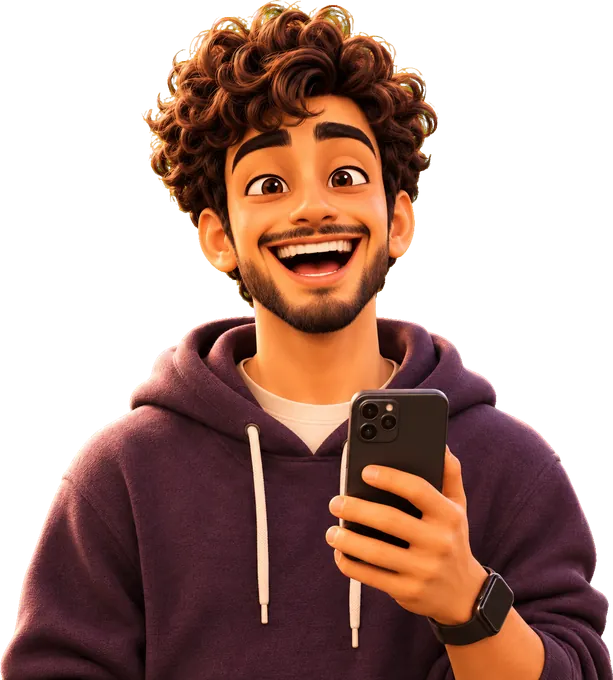
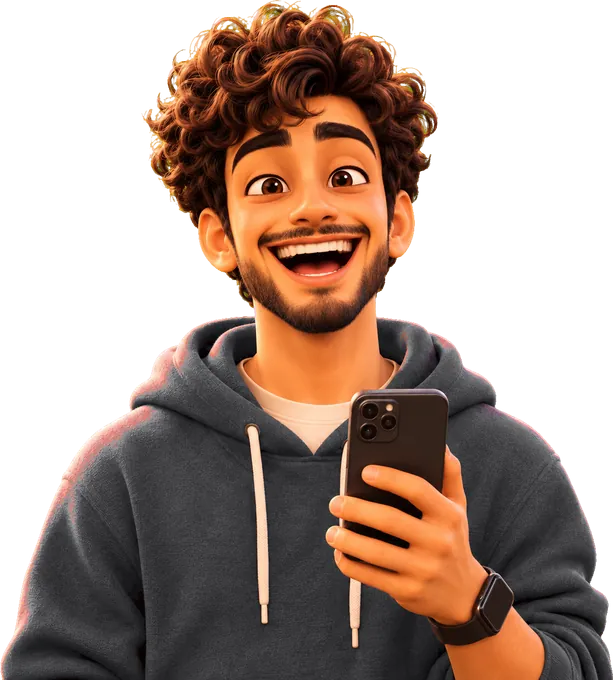
Audit: grey Kabir, he/she for Arjun and Meera, count homepage visitors
- Kabir's pictures recoloured so his hoodie is grey, matching his 3D
  model.
- Arjun's and Meera's result lines use he and she.
- Homepage links (ref=site-hero, site-nav, ...) are recorded as
  ref "site" in the lead and the result email. Allowed in the audit
  script, the audit-lead Worker and the Firestore rule; rules tests
  cover it (49 pass). The rule and Worker are not deployed yet.

Changed region(s): [[0.0, 0.4632, 0.6509, 1.0], [0.6199, 0.4632, 1.0, 1.0]]

diff --git a/audit/index.html b/audit/index.html
@@ -542,13 +542,13 @@ button { font: inherit; color: inherit; cursor: pointer; }
     C: { name: 'Competitor', line: 'You keep score. Against the market, and everyone else.',
       shows: ['After a loss you have to win it back, and it has to be now.', 'You add size, switch instruments or open another account to prove a point.', 'Someone else\'s payout can ruin your whole day.'],
       fear: 'Underneath it is fear of losing, to the market or to anyone. Every red trade feels like being beaten, and you can\'t leave a fight you lost.',
-      mirror: { img: 'img/competitor.webp', big: 'img/competitor-big.webp', alt: 'Arjun', who: 'You trade like Arjun.', note: 'Checks everyone else\'s payout before the chart. Arjun joins Two Traders soon.', ep: 'Follow the series' },
+      mirror: { img: 'img/competitor.webp', big: 'img/competitor-big.webp', alt: 'Arjun', who: 'You trade like Arjun.', note: 'He checks everyone else\'s payout before his own chart. Arjun joins Two Traders soon.', ep: 'Follow the series' },
       breaker: 'lock my next trade to the same size or smaller and close every chat and leaderboard',
       drill: 'Size-after-loss rule: after any loss, your next trade is the same size or smaller. Write it on your monitor.' },
     I: { name: 'Intellectualizer', line: 'You know everything. You execute nothing.',
       shows: ['You check one more timeframe and miss the entry, then chase it.', 'After every loss you re-backtest the whole strategy.', 'You can explain your rules better than you follow them.'],
       fear: 'Underneath it is fear of being wrong. As long as you\'re still analysing, you can\'t be wrong yet.',
-      mirror: { img: 'img/intellectualizer.webp', big: 'img/intellectualizer-big.webp', alt: 'Meera', who: 'You trade like Meera.', note: 'A notebook full of tabs, and the entry already gone. Meera joins Two Traders soon.', ep: 'Follow the series' },
+      mirror: { img: 'img/intellectualizer.webp', big: 'img/intellectualizer-big.webp', alt: 'Meera', who: 'You trade like Meera.', note: 'Her notebook is full of tabs, and the entry is already gone. Meera joins Two Traders soon.', ep: 'Follow the series' },
       breaker: 'allow myself three checks, then let my written plan decide',
       drill: 'Write your entry checklist on one card. Three checks maximum. When all three are yes, you execute.' }
   };

diff --git a/audit/audit-lead.js b/audit/audit-lead.js
@@ -26,8 +26,9 @@ const db = getFirestore(initializeApp(firebaseConfig, "audit"));
 const params = new URLSearchParams(location.search);
 const source = params.get("test") === "1" ? "test" : "audit";
 // Where the visitor came from (?ref=dm etc.). Anything outside this list is ignored.
-const ALLOWED_REFS = ["dm", "bio", "story", "reel"];
-const refParam = String(params.get("ref") || "").trim().toLowerCase();
+const ALLOWED_REFS = ["dm", "bio", "story", "reel", "site"];
+// Homepage links carry ref=site-hero, site-nav and so on; they all count as "site".
+const refParam = String(params.get("ref") || "").trim().toLowerCase().replace(/^site-[a-z]+$/, "site");
 const ref = ALLOWED_REFS.includes(refParam) ? refParam : null;
 
 function takenBefore() {

diff --git a/tests/rules/rules.test.js b/tests/rules/rules.test.js
@@ -294,10 +294,10 @@ describe("auditLeads", () => {
   });
   test("ref is optional and limited to dm, bio, story, reel", async () => {
     const db = anon();
-    for (const ref of ["dm", "bio", "story", "reel"]) {
+    for (const ref of ["dm", "bio", "story", "reel", "site"]) {
       await assertSucceeds(addDoc(collection(db, "auditLeads"), lead({ ref })));
     }
-    for (const ref of ["DM", "ads", "", "x".repeat(50), 1, null, true]) {
+    for (const ref of ["DM", "ads", "site-hero", "", "x".repeat(50), 1, null, true]) {
       await assertFails(addDoc(collection(db, "auditLeads"), lead({ ref })));
     }
   });

diff --git a/workers/audit-lead/src/index.js b/workers/audit-lead/src/index.js
@@ -11,7 +11,7 @@ const ALLOWED_ORIGINS = new Set([
 const LOCAL_ORIGIN = /^http:\/\/(localhost|127\.0\.0\.1)(:\d{1,5})?$/;
 const MAX_BODY_BYTES = 4096;
 const EMAIL_RE = /^[^\s@<>"'()\\,;:]+@[^\s@<>"'()\\,;:]+\.[^\s@<>"'()\\,;:]{2,}$/;
-const ALLOWED_REFS = ["dm", "bio", "story", "reel"];
+const ALLOWED_REFS = ["dm", "bio", "story", "reel", "site"];
 const LEVELS = ["steady", "mixed", "strong"];
 
 // Content mirrors audit/index.html (TYPES / BODY / NERVE / STAGE / week). Keep them in sync.
